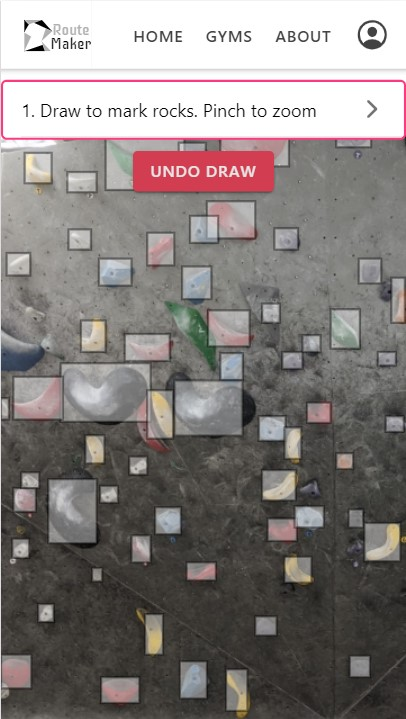
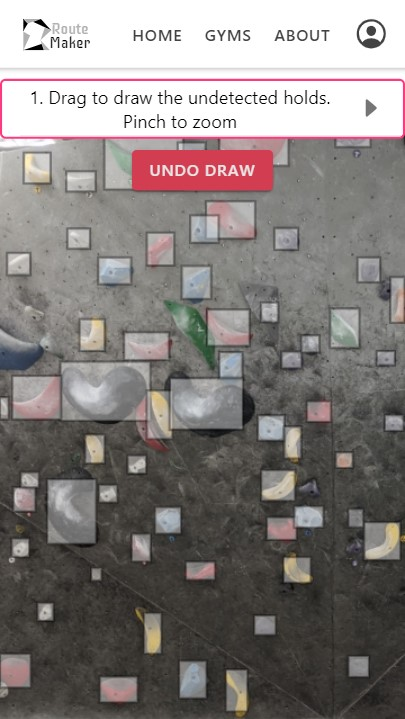
fix: Fix PR comments

diff --git a/ionic_user_interface/src/views/About.vue b/ionic_user_interface/src/views/About.vue
@@ -2,22 +2,24 @@
   <ion-page>
     <ion-content :fullscreen="true">
       <div id="container">
-        <strong>Hello Climbers! &#129495;</strong>
+        <strong>-- Hello Climbers! --</strong>
         <p class="lead">
           This is a free open source project between two friends who happen to code and climb.
         </p>
 
         <p class="lead">
-          It aims to accomplish two things:
+          It aims to provide two features:
           <br />
         </p>
-        <p class="lead">
-          1. Provide a drawing board for custom climbing routes
-          <br />
-          2. Route sharing system where climbers can search routes by gym, grade and vote
-        </p>
+        <div class="features-div">
+          <p class="lead ion-text-start">
+            1. Provide a drawing board for custom climbing routes
+            <br />
+            2. Route sharing system where climbers can search routes by gym, grade and vote
+          </p>
+        </div>
 
-        <p class="lead">Please star our repository!</p>
+        <p class="lead">Please star our repository to support!</p>
 
         <ion-button
           target="_blank"
@@ -31,28 +33,24 @@
 
         <br />
         <br />
-        <strong>How To Use</strong>
+        <br />
+        <strong>-- How To Use --</strong>
 
         <hr class="my-4" id="section2" />
         <p class="lead my-4">1. Upload the photo of a climbing wall</p>
         <img class="screenshot" :src="`${publicPath}assets/screenshots/Screenshot_1.jpg`" />
         <br />
-        <br />
         <p class="lead my-4">2. The holds will be marked automatically</p>
         <img class="screenshot" :src="`${publicPath}assets/screenshots/Screenshot_2.jpg`" />
-        <br />
         <br />
         <p class="lead my-4">3. Create a custom route by following the prompts</p>
         <img class="screenshot" :src="`${publicPath}assets/screenshots/Screenshot_3.jpg`" />
         <br />
-        <br />
         <p class="lead my-4">4. Post to share with other gym goers</p>
         <img class="screenshot" :src="`${publicPath}assets/screenshots/Screenshot_4.jpg`" />
         <br />
-        <br />
         <p class="lead my-4">5. Vote, grade and comment on other's routes</p>
         <img class="screenshot" :src="`${publicPath}assets/screenshots/Screenshot_5.jpg`" />
-        <br />
         <br />
       </div>
     </ion-content>
@@ -108,8 +106,16 @@ export default defineComponent({
 
 .screenshot {
   border-radius: 15px;
-  border: 2px solid grey;
+  border: 1.5px solid grey;
   max-width: 200px;
+}
+
+.features-div {
+  max-width: 500px;
+  margin: 0 auto;
+  border-radius: 15px;
+  border: 1px solid grey;
+  padding: 0.5rem 1rem;
 }
 
 .github-logo {

diff --git a/ionic_user_interface/src/components/wall-image-viewer/Canvas.vue b/ionic_user_interface/src/components/wall-image-viewer/Canvas.vue
@@ -3,15 +3,17 @@
     <br />
     <br />
     <div class="sticky-button-rows">
-      <ion-item class="instruction-steps">
+      <ion-item class="instruction-steps ion-text-center">
         <ion-icon
           class="instruction-arrow"
           v-if="routeMakingStep > 0"
           slot="start"
-          :icon="chevronBackOutline"
+          :icon="caretBackOutline"
           @click="changeRouteMakingStep(false)"
         ></ion-icon>
-        <ion-text v-if="routeMakingStep === 0">1. Draw to mark rocks. Pinch to zoom</ion-text>
+        <ion-text v-if="routeMakingStep === 0">
+          1. Drag to draw the undetected holds. Pinch to zoom
+        </ion-text>
         <ion-text v-if="routeMakingStep === 1">2. Select handholds &#38; footholds</ion-text>
         <ion-text v-if="routeMakingStep === 2">3. Does handhold order matter?</ion-text>
         <ion-text v-if="routeMakingStep === 3">4. One hand or two hand start?</ion-text>
@@ -20,7 +22,7 @@
           class="instruction-arrow"
           v-if="routeMakingStep < 4"
           slot="end"
-          :icon="chevronForwardOutline"
+          :icon="caretForwardOutline"
           @click="changeRouteMakingStep(true)"
         ></ion-icon>
       </ion-item>
@@ -95,7 +97,7 @@ import {
 } from '@ionic/vue';
 import { defineComponent, inject, onMounted, ref, watch, PropType } from 'vue';
 import { useRouter } from 'vue-router';
-import { chevronForwardOutline, chevronBackOutline } from 'ionicons/icons';
+import { caretForwardOutline, caretBackOutline } from 'ionicons/icons';
 
 import getBoundingBoxes from '@/components/wall-image-viewer/getBoundingBoxes';
 import { useBoxLayer, DrawLayer } from '@/components/wall-image-viewer/box-layer';
@@ -343,8 +345,8 @@ export default defineComponent({
       handleUndoDraw,
       handleReset,
       routeMakingStep,
-      chevronForwardOutline,
-      chevronBackOutline,
+      caretForwardOutline,
+      caretBackOutline,
       changeRouteMakingStep,
       changeSelectMode,
     };
@@ -364,6 +366,7 @@ export default defineComponent({
 
 .instruction-arrow:hover {
   cursor: pointer;
+  color: black;
 }
 
 .hold-picker {
